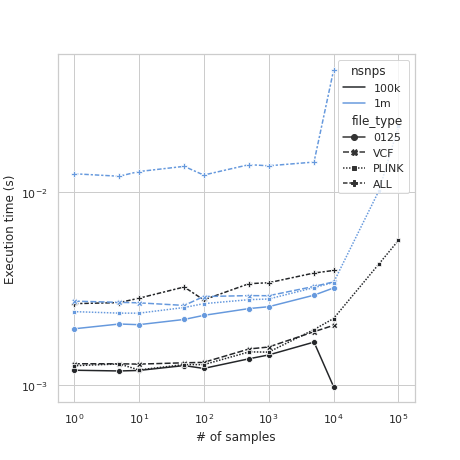
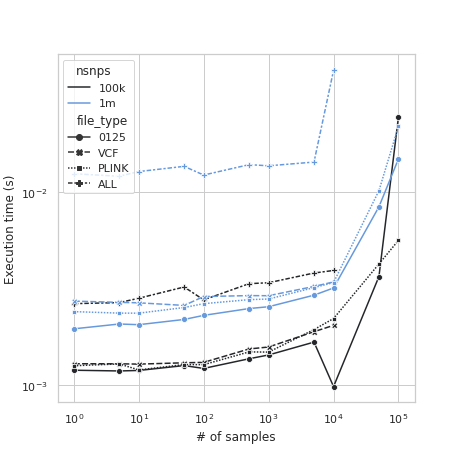
Revert change in parameters to consider larger results

diff --git a/experiment_config.py b/experiment_config.py
@@ -115,9 +115,9 @@ exps: dict = {
             1000.0,
             5000.0,
             10000.0,
-            # 50000.0,
-            # 100000.0,
-            # 1000000.0,
+            50000.0,
+            100000.0,
+            1000000.0,
         ],
         "readers": {"map": readers.Z125MapReader, "ped": readers.Z125SampleReader},
         "file_extensions": {"map": ".0125map", "ped": ".0125ped", "ids": ".0125ids"},
@@ -136,7 +136,9 @@ exps: dict = {
             1000.0,
             5000.0,
             10000.0,
-        ],  # , 100000.0],  # , 1000000.0],
+            100000.0,
+            1000000.0,
+        ],
         "readers": {"map": readers.VcfMapReader, "ped": readers.VcfSampleReader},
         "file_extensions": {"ext": ".vcf", "ids": ".vcfids"},
     },
@@ -156,7 +158,8 @@ exps: dict = {
             10000.0,
             50000.0,
             100000.0,
-        ],  # , 1000000.0],
+            1000000.0,
+        ],
         "readers": {"map": readers.PlinkMapReader, "ped": readers.PlinkSampleReader},
         "file_extensions": {"map": ".plmap", "ped": ".plped", "ids": ".plids"},
     },
@@ -174,8 +177,9 @@ exps: dict = {
             1000.0,
             5000.0,
             10000.0,
+            100000.0,
+            1000000.0,
         ],
-        #   100000.0],  # , 1000000.0],
         "readers": {
             "0125": {"map": readers.Z125MapReader, "ped": readers.Z125SampleReader},
             "PLINK": {"map": readers.PlinkMapReader, "ped": readers.PlinkSampleReader},
